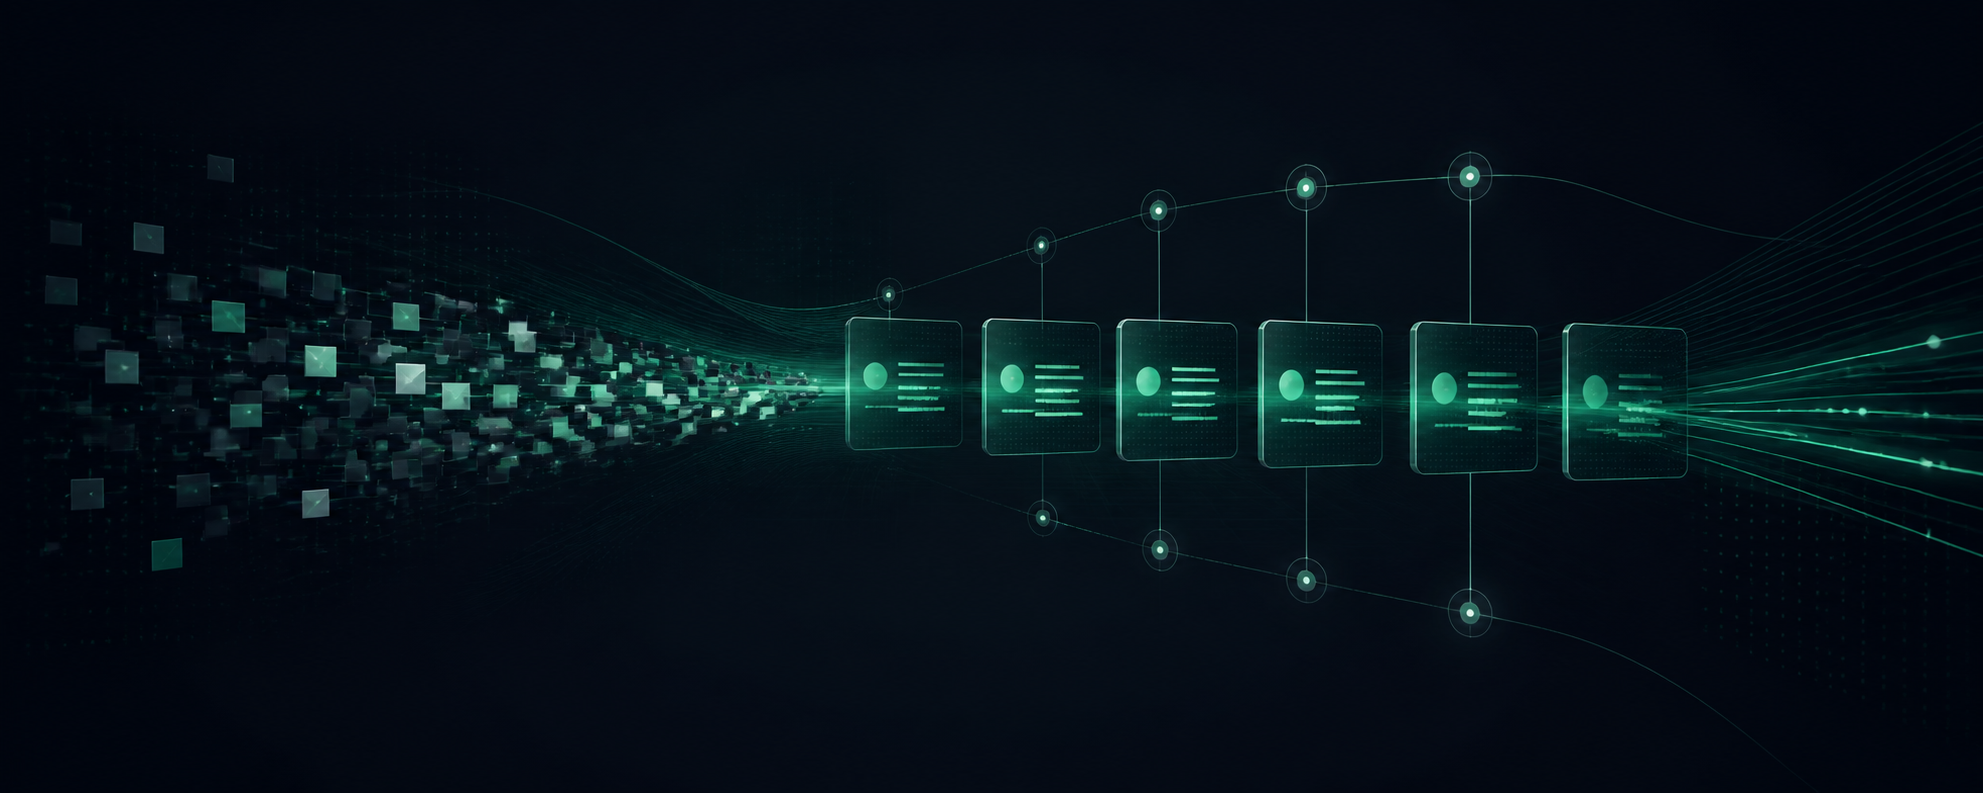
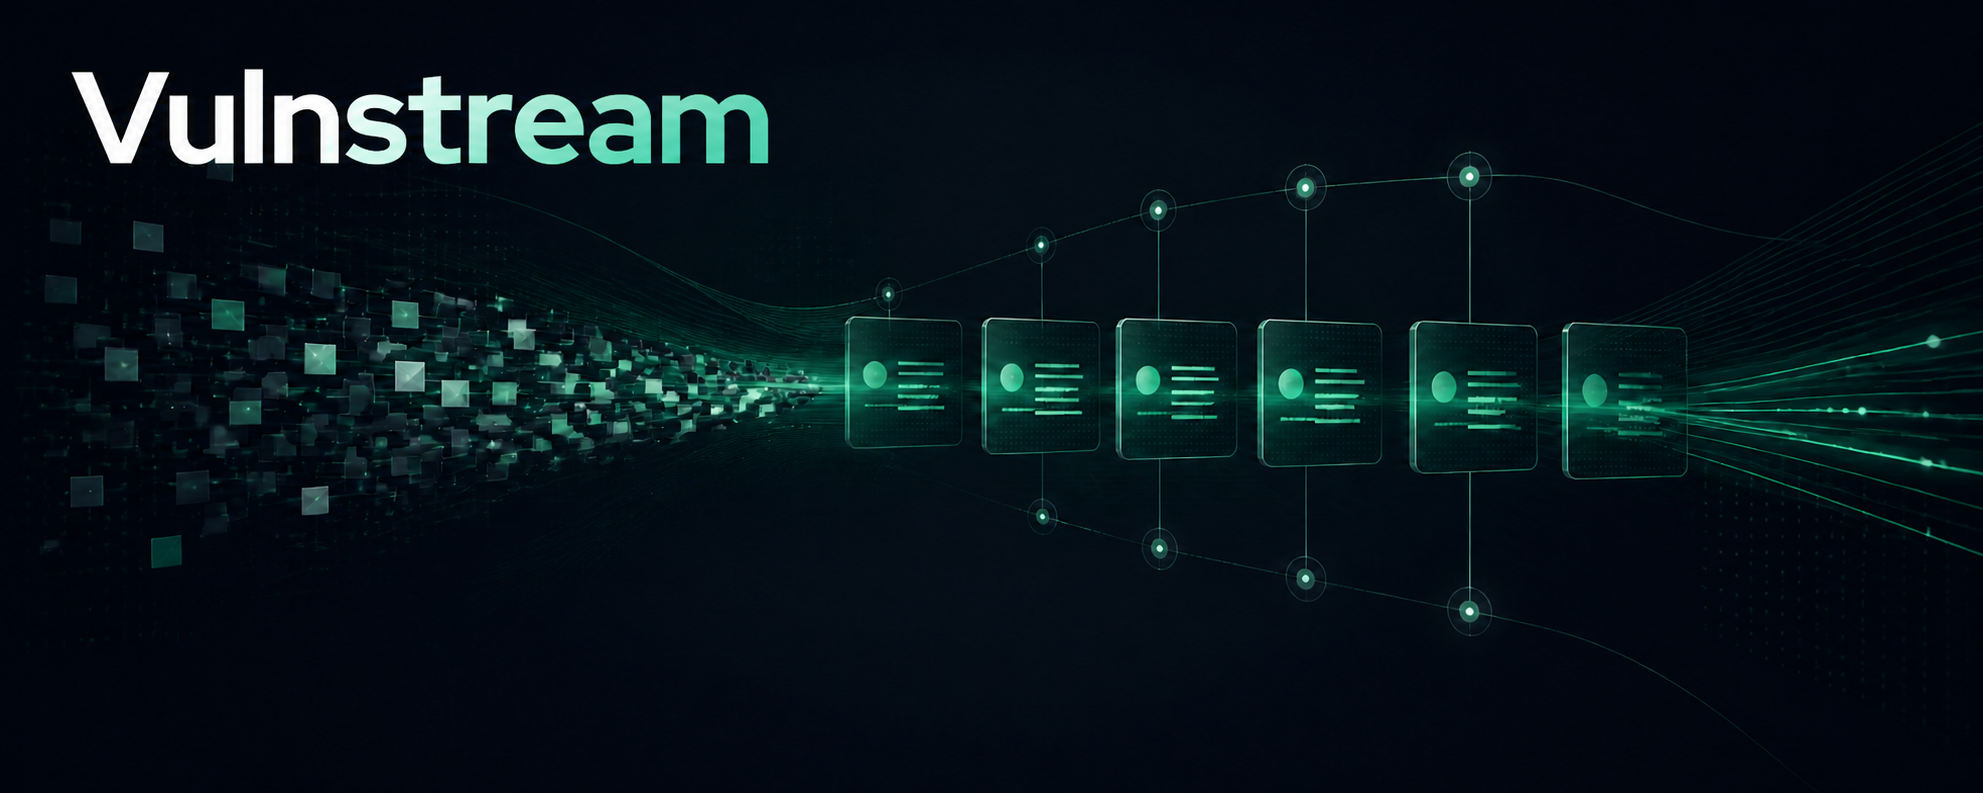
Add Vulnstream wordmark to profile hero (#4)
Adds the Vulnstream wordmark to the generated organization banner while preserving the event-stream composition and accessible text equivalent.

diff --git a/profile/README.md b/profile/README.md
@@ -1,6 +1,6 @@
 # Vulnstream
 
-![Abstract stream of source records becoming ordered, verifiable vulnerability events](../assets/vulnstream-hero.png)
+![Vulnstream wordmark above an abstract stream of source records becoming ordered, verifiable vulnerability events](../assets/vulnstream-hero.png)
 
 **Dependable change-data infrastructure for vulnerability intelligence.**
 
